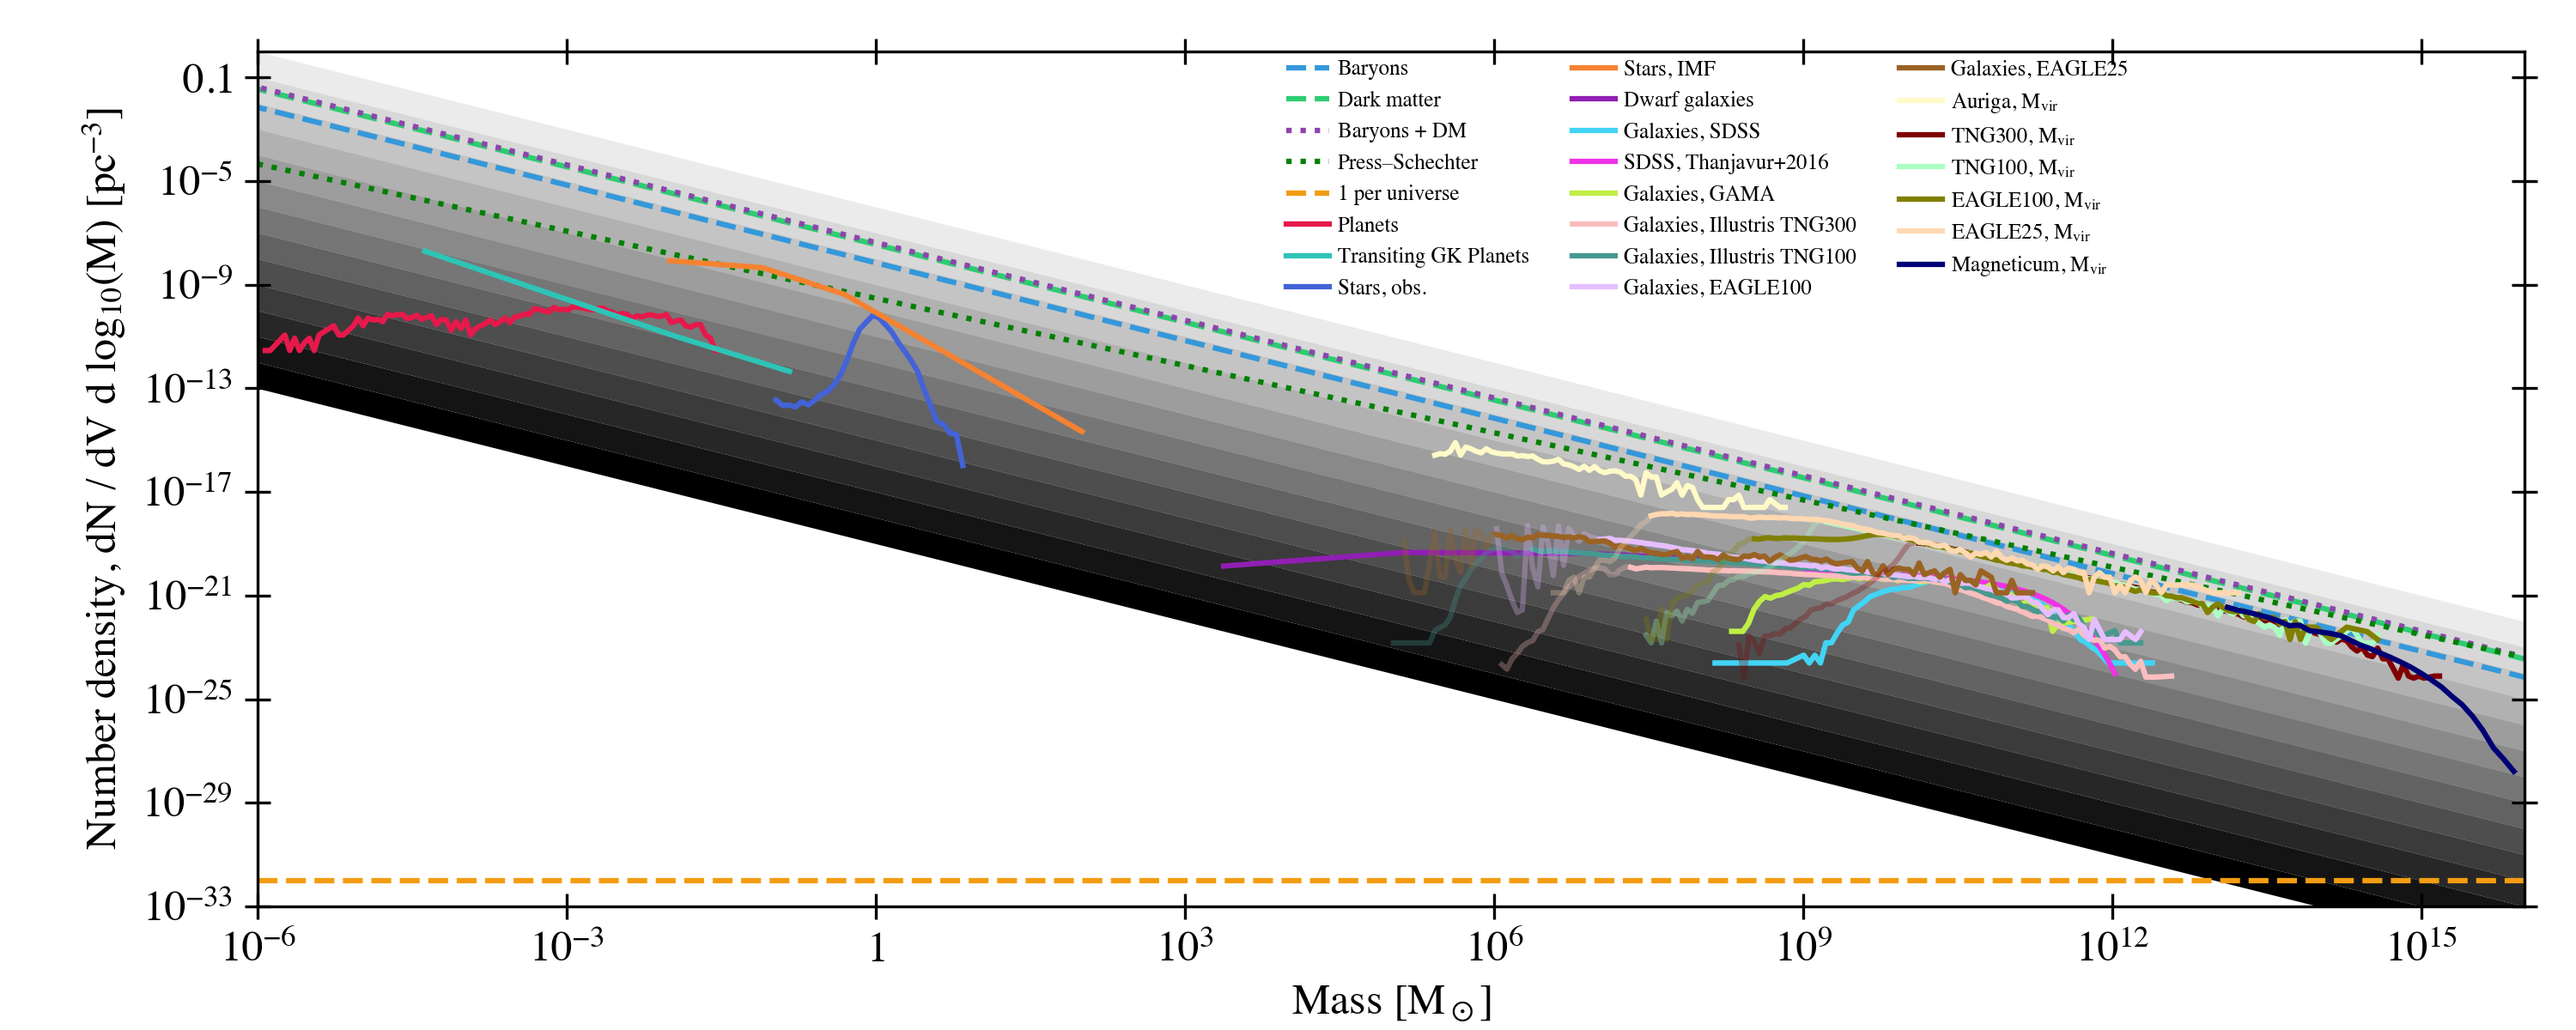
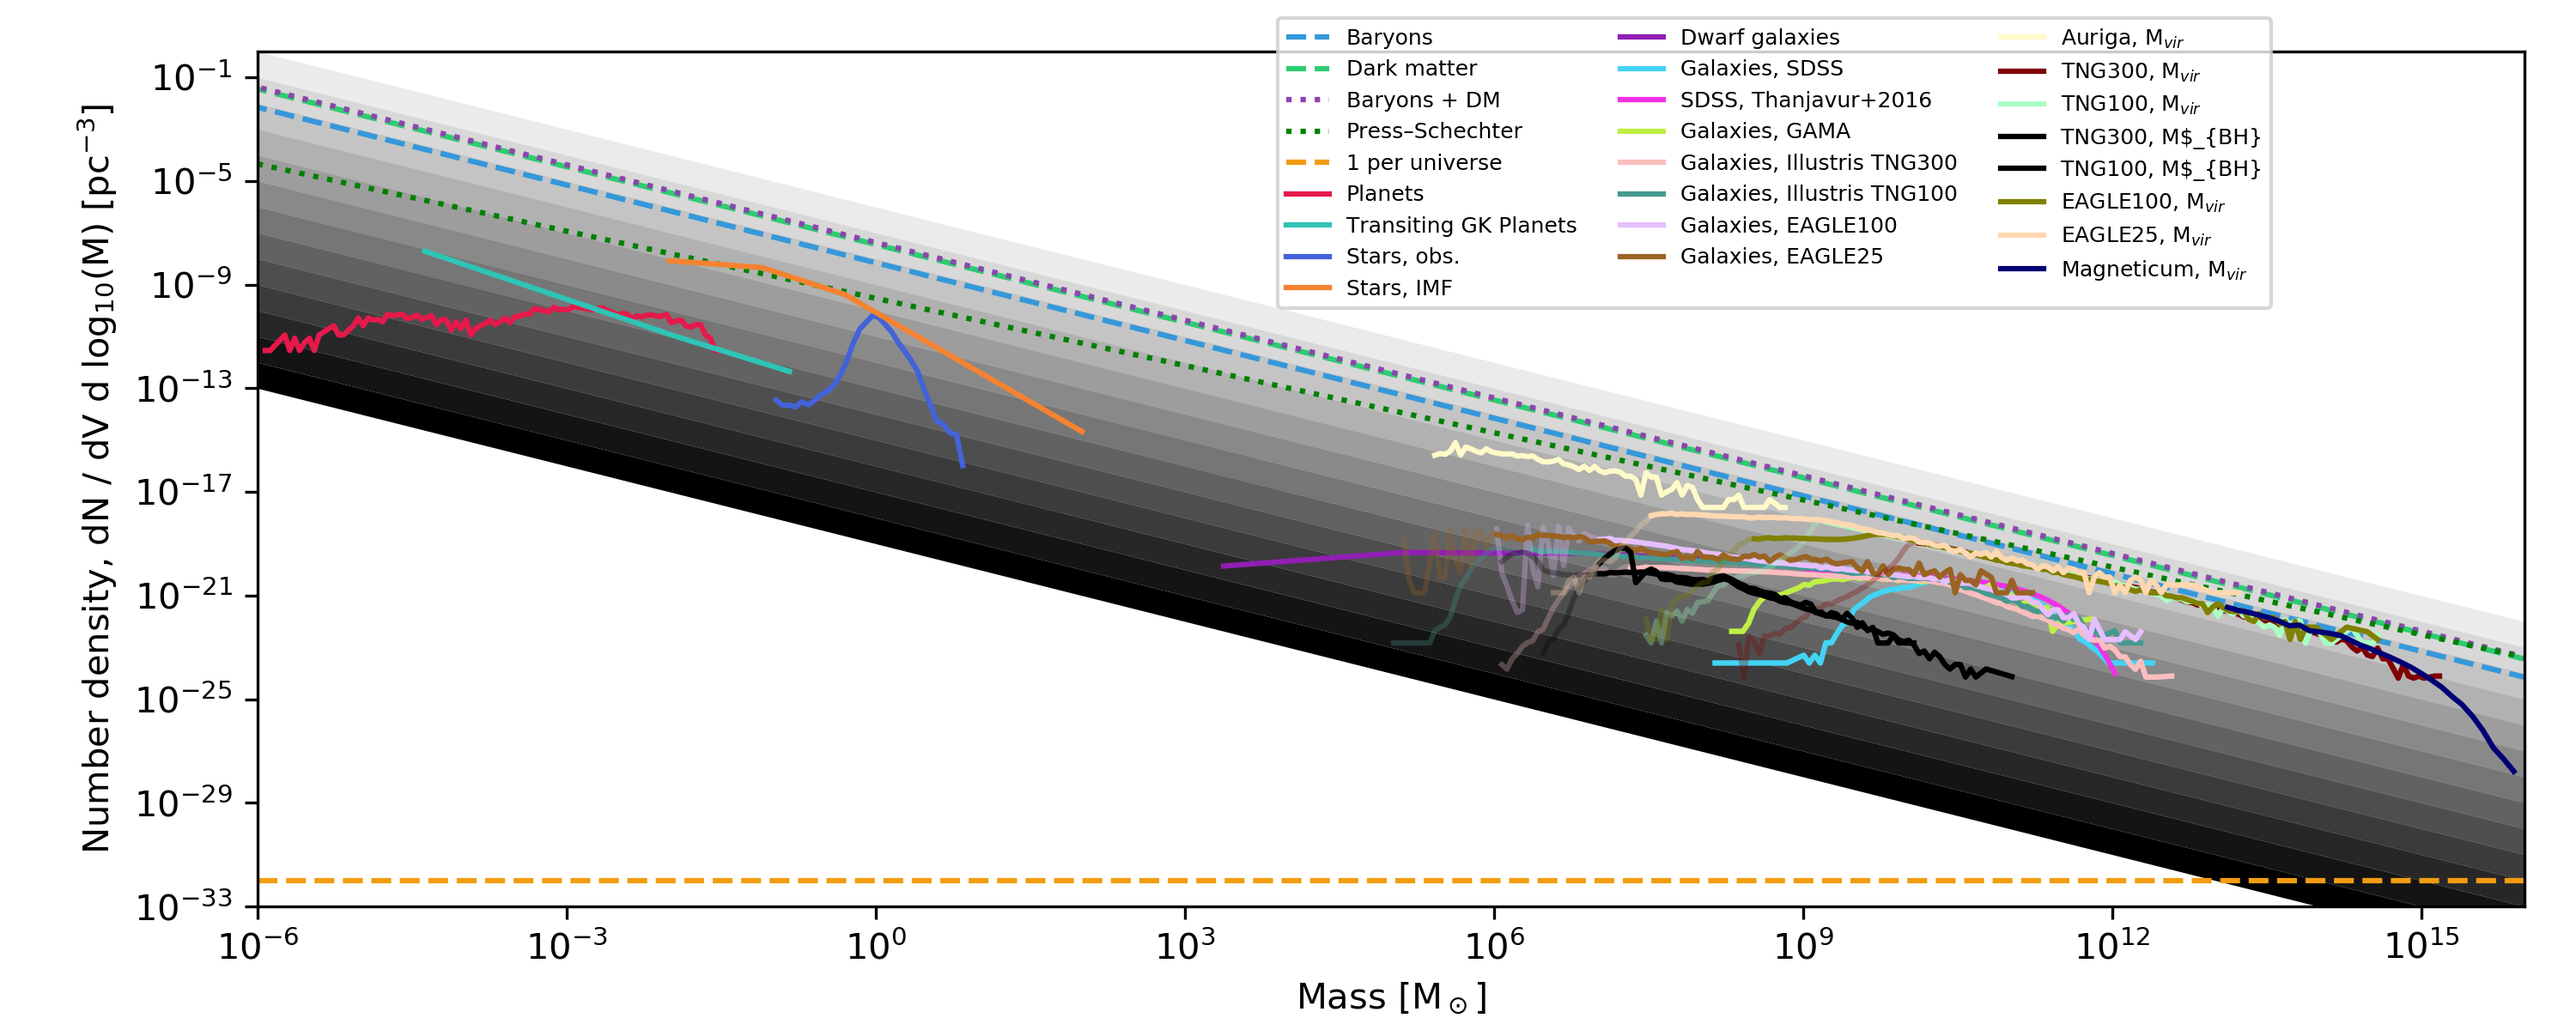
Added BHs to plot from Illustris

diff --git a/figures/datasets.py b/figures/datasets.py
@@ -25,6 +25,10 @@ def data_to_plot(set):
                 ['Auriga, M$_{vir}$', 'BigPlotData_Auriga_mvir.txt', 0, '#fffac8', '-'],
                 ['TNG300, M$_{vir}$', 'illustris/BigPlotData_TNG300_mvir.txt', 1.2e10, '#800000', '-'],
                 ['TNG100, M$_{vir}$', 'illustris/BigPlotData_TNG100_mvir.txt', 1.5e9, '#aaffc3', '-'],
+
+                ['TNG300, M$_{BH}', 'illustris/BigPlotData_TNG300_mbh.txt', 1e7, 'k', '-'],
+                ['TNG100, M$_{BH}', 'illustris/BigPlotData_TNG100_mbh.txt', 1e7, 'k', '-'],
+
                 ['EAGLE100, M$_{vir}$', 'eagle/BigPlotData_EAGLE_mvir.txt', 3e8, '#808000', '-'],
                 ['EAGLE25, M$_{vir}$', 'eagle/BigPlotData_EAGLE25_mvir.txt', 3e7, '#ffd8b1', '-'],
                 ['Magneticum, M$_{vir}$', 'BigPlotData_Magneticum_mvir.txt', 0, '#000075', '-']
